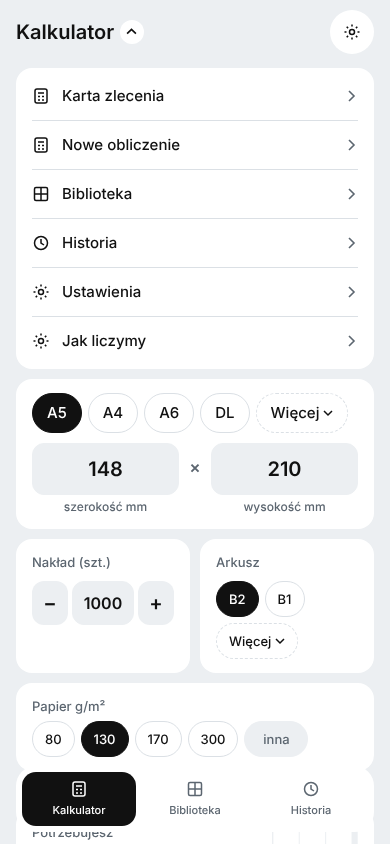
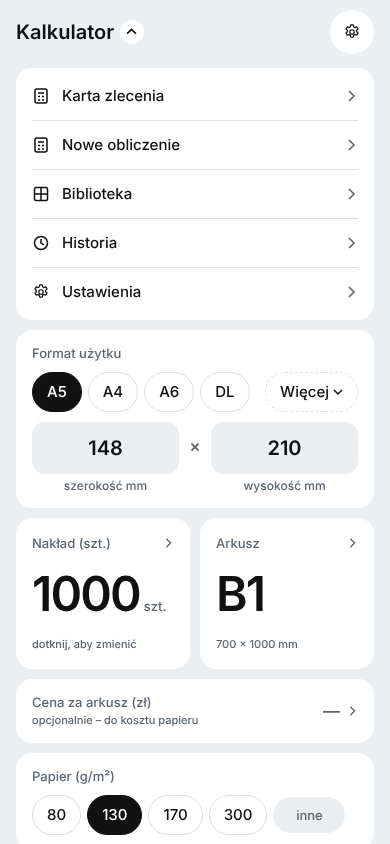
Arkusz jako kafelek obok nakładu, cena za arkusz jako pasek; bez „Jak liczymy” w menu kalkulatora
Claude-Session: https://claude.ai/code/session_012Mu4SL3N7cvmuXBAiMZNXP

diff --git a/apps/app/src/features/calculator/calculator-screen.tsx b/apps/app/src/features/calculator/calculator-screen.tsx
@@ -13,8 +13,8 @@ import { useCalculation } from '@/hooks/use-calculation';
 import { useUnit } from '@/hooks/use-unit';
 import { t } from '@/i18n/pl';
 import { fmtDec, fmtInt } from '@/lib/format';
-import { BLEED_OPTIONS, MARGIN_TOP_OPTIONS, QUICK_FORMAT_IDS, QUICK_GRAMMAGES, QUICK_SHEET_IDS, WASTE_OPTIONS } from '@/lib/library-data';
-import { findFormat, findSheet, useAppStore } from '@/store/app-store';
+import { BLEED_OPTIONS, MARGIN_TOP_OPTIONS, QUICK_FORMAT_IDS, QUICK_GRAMMAGES, WASTE_OPTIONS } from '@/lib/library-data';
+import { findFormat, useAppStore } from '@/store/app-store';
 import { spacing } from '@/theme/tokens';
 import { useTheme } from '@/theme/use-theme';
 
@@ -24,8 +24,7 @@ export function CalculatorScreen() {
   const inputs = useAppStore((s) => s.inputs);
   const settings = useAppStore((s) => s.settings);
   const myFormats = useAppStore((s) => s.formats);
-  const mySheets = useAppStore((s) => s.sheets);
-  const { setInput, setSize, applyFormat, applySheet, saveCurrent, toggleStar } = useAppStore();
+  const { setInput, setSize, applyFormat, saveCurrent, toggleStar } = useAppStore();
   const currentEntryId = useAppStore((s) => s.currentEntryId);
   const starred = useAppStore((s) => (s.currentEntryId ? s.history.find((h) => h.id === s.currentEntryId)?.starred : false)) ?? false;
   const calc = useCalculation();
@@ -51,9 +50,6 @@ export function CalculatorScreen() {
   const selectedFormat = findFormat(inputs.formatId, myFormats);
   const showExtraFormat = selectedFormat && !QUICK_FORMAT_IDS.includes(selectedFormat.id);
 
-  const quickSheets = QUICK_SHEET_IDS.map((id) => findSheet(id, mySheets)!).filter(Boolean);
-  const selectedSheet = inputs.customSheet ? null : findSheet(inputs.sheetId, mySheets);
-  const showExtraSheet = inputs.customSheet || (selectedSheet && !QUICK_SHEET_IDS.includes(selectedSheet.id));
 
   const customGrammage = !QUICK_GRAMMAGES.includes(inputs.grammage);
   const customBleed = !BLEED_OPTIONS.includes(inputs.bleed);
@@ -116,32 +112,29 @@ export function CalculatorScreen() {
         </View>
       </Card>
 
-      {/* Nakład | Cena za arkusz – kafelki, dotknięcie otwiera edycję */}
+      {/* Nakład | Arkusz – kafelki, dotknięcie otwiera edycję / listę */}
       <View style={styles.twoCol}>
         <ValueTile label={t.calc.quantity} value={fmtInt(inputs.quantity)} unit={t.common.pcs} onPress={() => router.push('/edit-quantity')} accessibilityLabel={t.calc.editQuantity} />
-        {settings.priceEnabled ? (
-          <ValueTile
-            label={t.calc.priceCard}
-            value={inputs.pricePerSheet > 0 ? fmtDec(inputs.pricePerSheet, 2) : '—'}
-            unit={inputs.pricePerSheet > 0 ? t.settings.pln : undefined}
-            muted={!(inputs.pricePerSheet > 0)}
-            onPress={() => router.push('/edit-price')}
-            accessibilityLabel={t.calc.editPrice}
-          />
-        ) : null}
+        <ValueTile label={t.calc.sheet} value={calc.sheet.name} sub={unit.fmtSize(calc.sheet.size.width, calc.sheet.size.height)} onPress={() => router.push('/pick-sheet')} accessibilityLabel={t.pickSheet.title} />
       </View>
 
-      {/* Arkusz */}
-      <Card>
-        <Label>{t.calc.sheet}</Label>
-        <View style={styles.chips}>
-          {quickSheets.map((s) => (
-            <Chip key={s.id} label={s.name} on={!inputs.customSheet && inputs.sheetId === s.id} onPress={() => applySheet(s.id)} />
-          ))}
-          {showExtraSheet ? <Chip label={calc.sheet.name} on onPress={() => router.push('/pick-sheet')} /> : null}
-          <Chip label={t.calc.more} dashed onPress={() => router.push('/pick-sheet')} icon={<ChevronDown color={theme.ink} />} style={{ marginLeft: 'auto' }} />
-        </View>
-      </Card>
+      {/* Cena za arkusz (opcjonalna) */}
+      {settings.priceEnabled ? (
+        <Pressable onPress={() => router.push('/edit-price')} accessibilityRole="button" accessibilityLabel={t.calc.editPrice} style={({ pressed }) => pressed && { opacity: 0.75 }}>
+          <Card style={styles.between}>
+            <View>
+              <Label>{t.calc.priceCard}</Label>
+              <Label style={{ fontSize: 11 }}>{inputs.pricePerSheet > 0 ? t.calc.tapToEdit : t.calc.priceHint}</Label>
+            </View>
+            <View style={styles.priceRow}>
+              <Text variant="value" color={inputs.pricePerSheet > 0 ? 'ink' : 'muted'}>
+                {inputs.pricePerSheet > 0 ? `${fmtDec(inputs.pricePerSheet, 2)} ${t.settings.pln}` : '—'}
+              </Text>
+              <ChevronRight color={theme.muted} size={12} />
+            </View>
+          </Card>
+        </Pressable>
+      ) : null}
 
       {/* Papier */}
       <Card>
@@ -254,6 +247,7 @@ const styles = StyleSheet.create({
   between: { flexDirection: 'row', justifyContent: 'space-between', alignItems: 'center', gap: spacing.md },
   twoCol: { flexDirection: 'row', gap: spacing.md },
   col: { flex: 1, minWidth: 0 },
+  priceRow: { flexDirection: 'row', alignItems: 'center', gap: spacing.sm },
   resultRow: { flexDirection: 'row', gap: spacing.md, alignItems: 'flex-start' },
   actions: { flexDirection: 'row', gap: spacing.sm, alignItems: 'center' },
 });

diff --git a/apps/app/src/components/value-tile.tsx b/apps/app/src/components/value-tile.tsx
@@ -12,11 +12,13 @@ interface Props {
   value: string;
   unit?: string;
   muted?: boolean;
+  /** Dodatkowy opis pod wartością (zamiast podpowiedzi „dotknij”). */
+  sub?: string;
   onPress: () => void;
   accessibilityLabel: string;
 }
 
-export function ValueTile({ label, value, unit, muted, onPress, accessibilityLabel }: Props) {
+export function ValueTile({ label, value, unit, muted, sub, onPress, accessibilityLabel }: Props) {
   const theme = useTheme();
   return (
     <Pressable
@@ -39,7 +41,9 @@ export function ValueTile({ label, value, unit, muted, onPress, accessibilityLab
           </Text>
         ) : null}
       </View>
-      <Label style={{ fontSize: 11 }}>{t.calc.tapToEdit}</Label>
+      <Label style={{ fontSize: 11 }} numberOfLines={1}>
+        {sub ?? t.calc.tapToEdit}
+      </Label>
     </Pressable>
   );
 }

diff --git a/apps/app/src/features/calculator/functions-menu.tsx b/apps/app/src/features/calculator/functions-menu.tsx
@@ -44,7 +44,6 @@ export function FunctionsMenu({ onClose, onNewCalculation, cardDisabled }: MenuP
     { label: t.menu.library, icon: <LibraryIcon color={theme.ink} />, onPress: go(() => router.navigate('/library')) },
     { label: t.menu.history, icon: <HistoryIcon color={theme.ink} />, onPress: go(() => router.navigate('/history')) },
     { label: t.menu.settings, icon: <GearIcon color={theme.ink} />, onPress: go(() => router.push('/settings')) },
-    { label: t.menu.help, icon: <GearIcon color={theme.ink} />, onPress: go(() => router.push('/help')) },
   ];
   return (
     <Card style={{ paddingVertical: 4, gap: 0 }} accessibilityRole="menu">
